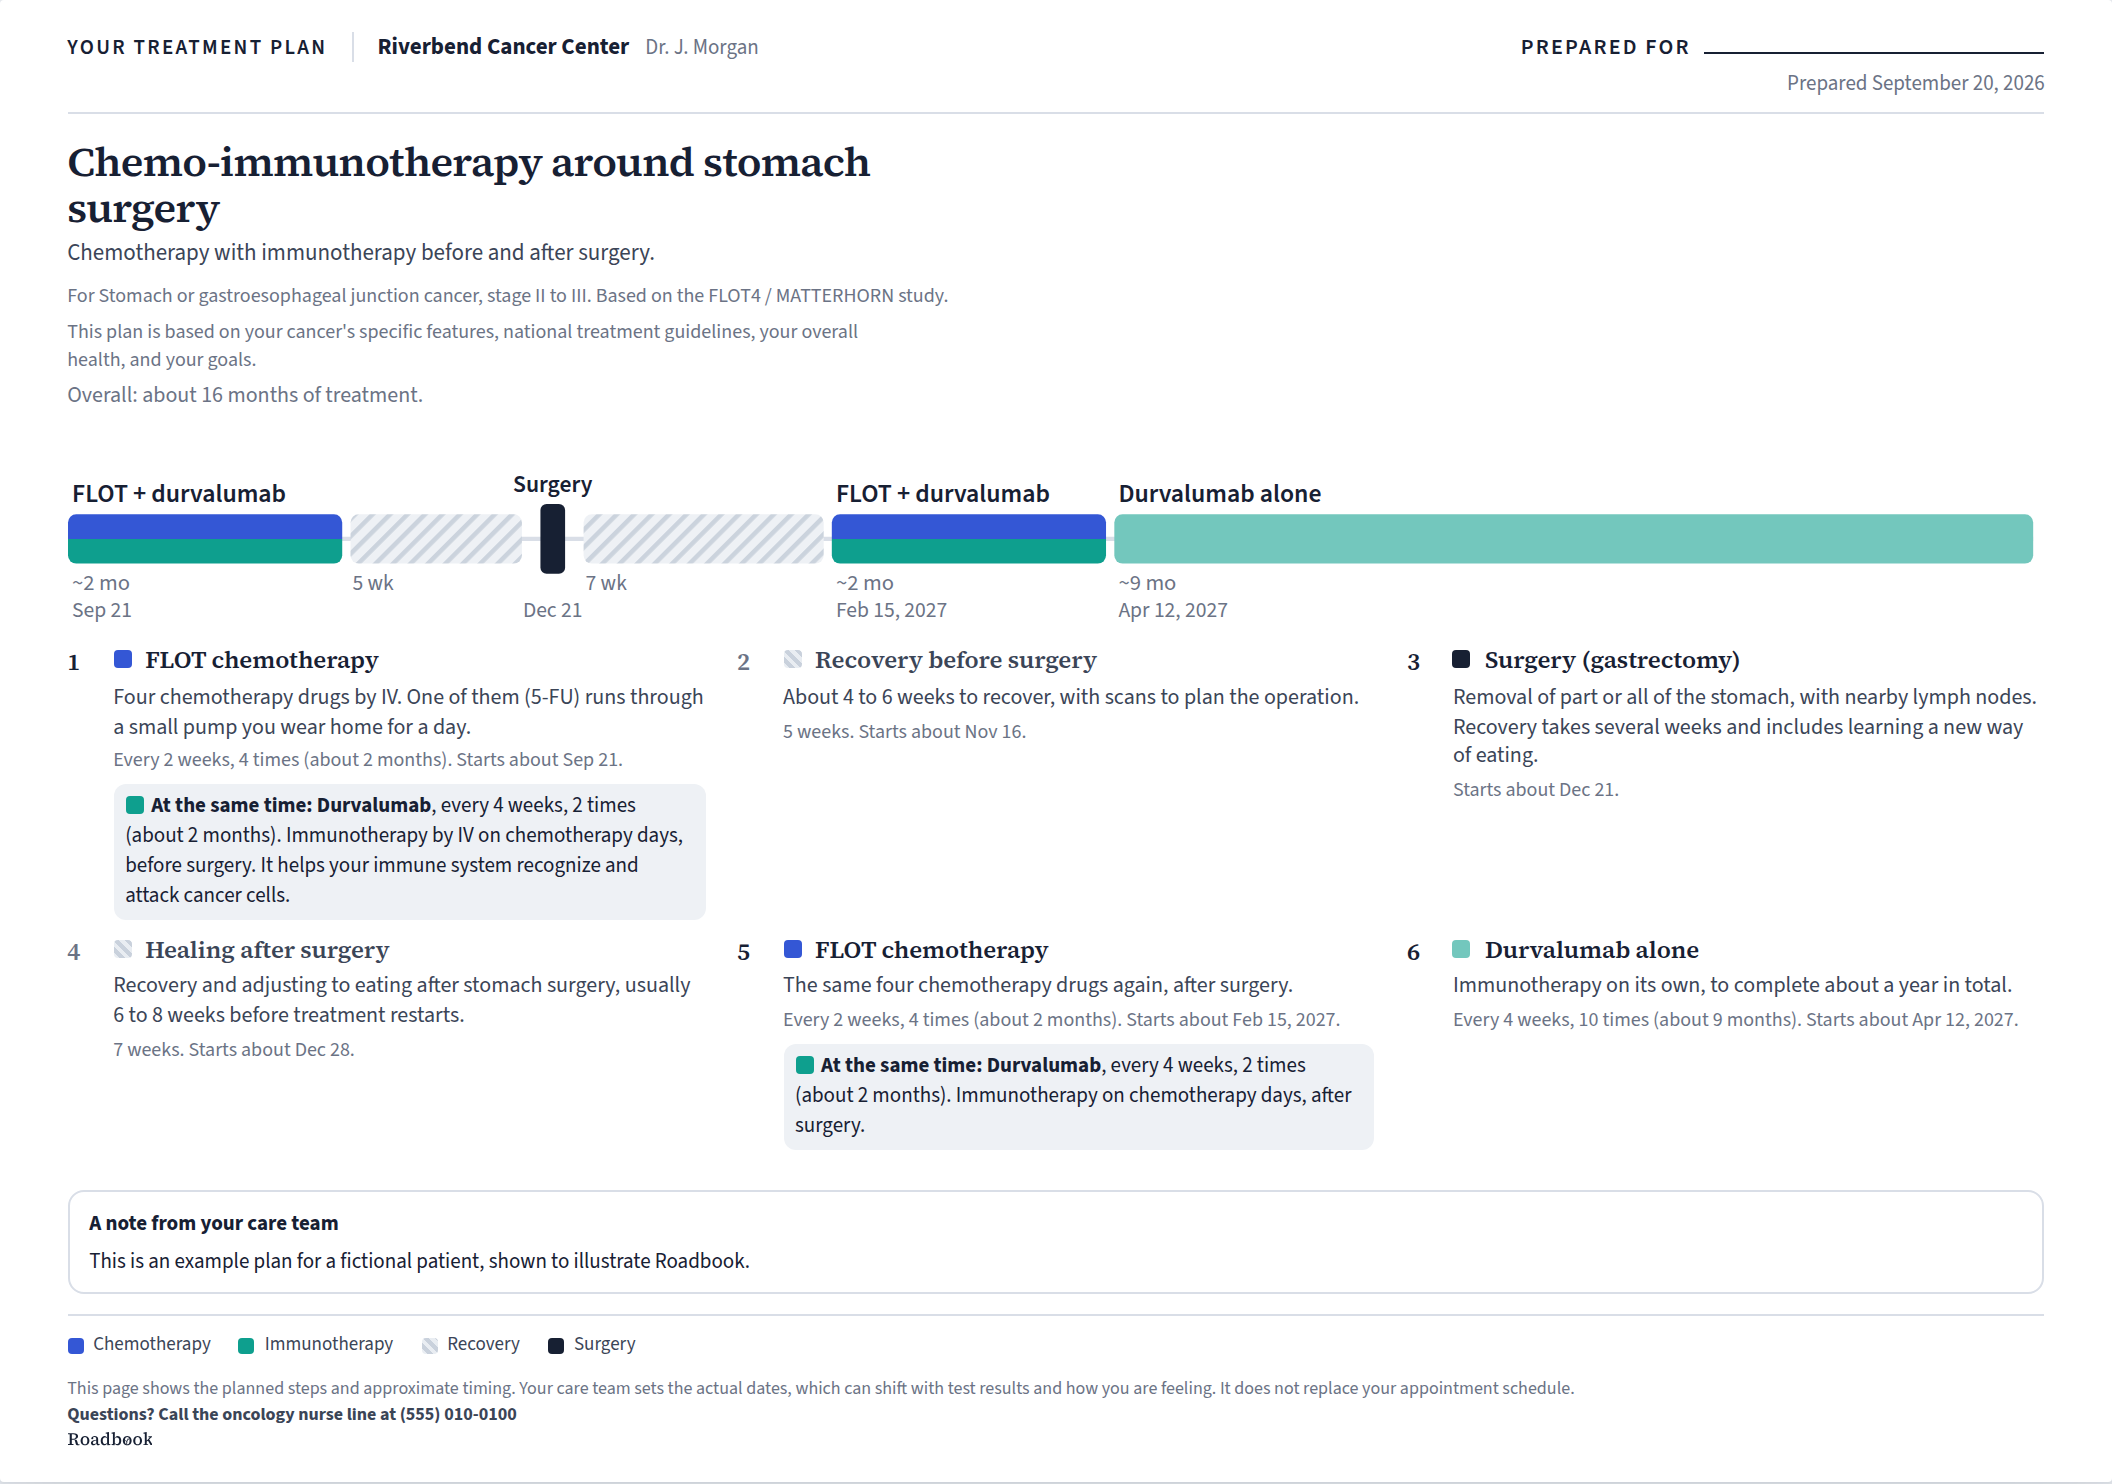
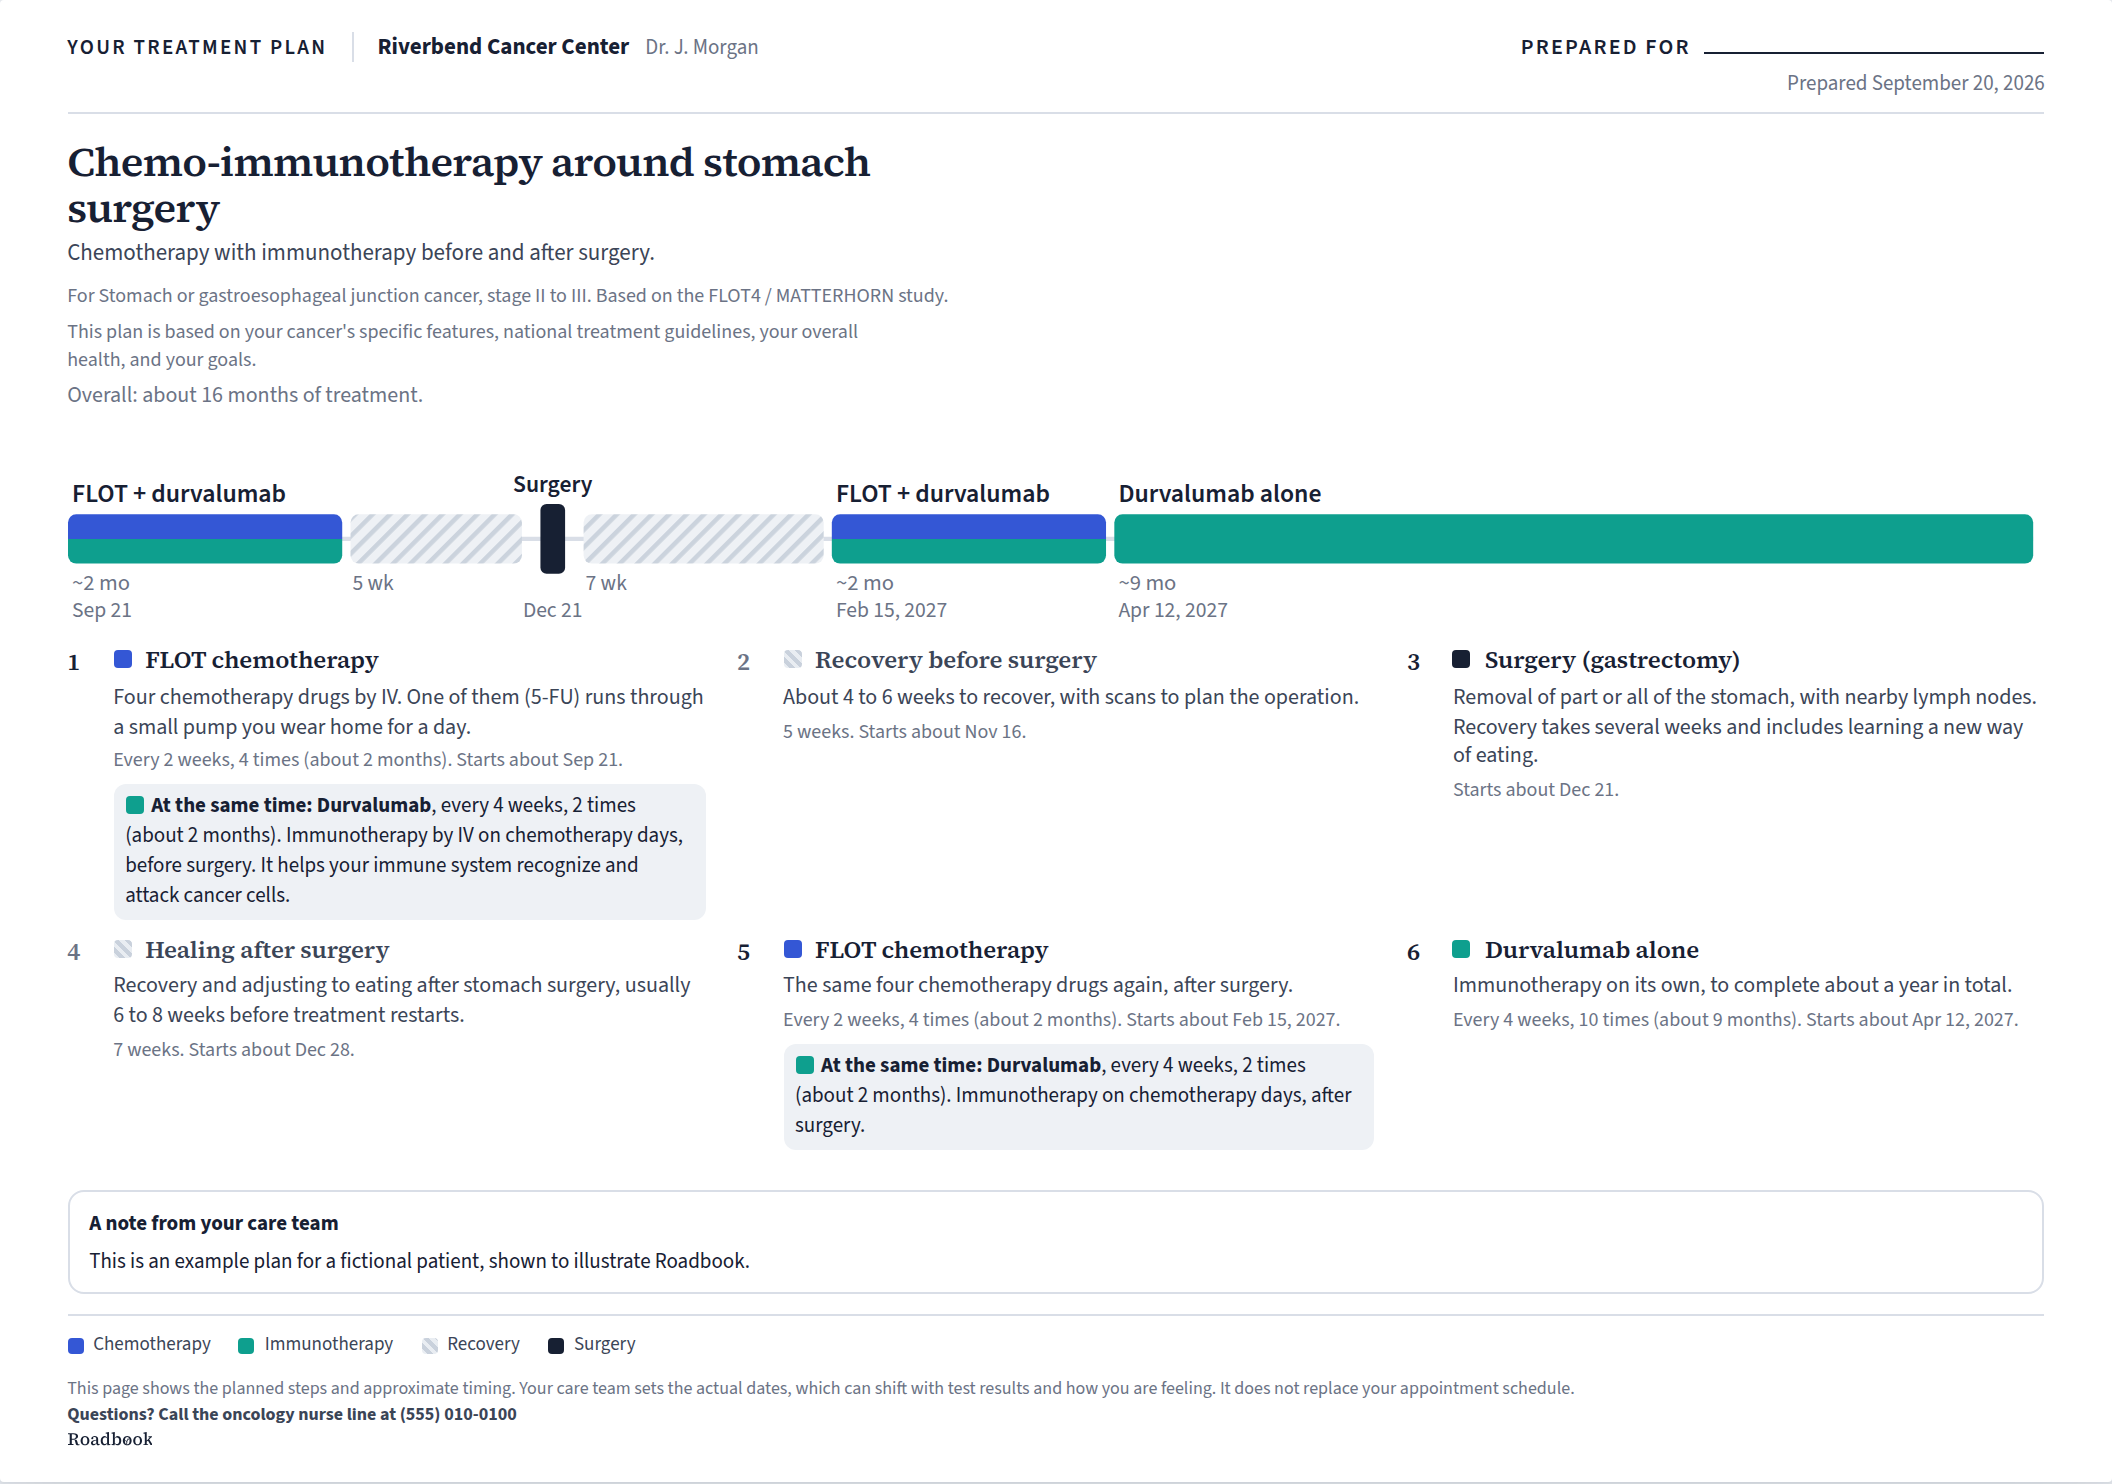
Map colours: a drug keeps one shade wherever it appears in a plan
Within a treatment-type family the map gives each drug its own shade so
that consecutive bars of the same type (AC, then paclitaxel) can be told
apart. The shade was keyed on the step's full name, so a qualifier made
the same drug a new drug: "Durvalumab alone" drew lighter than the
durvalumab inside "FLOT + durvalumab", "Carboplatin + paclitaxel (after
surgery)" lighter than the same drugs before surgery, "Bevacizumab
maintenance, if used" lighter than bevacizumab with chemotherapy.

The key is now the drug: qualifier words are dropped (alone, maintenance,
if used, before/after surgery, tablets, for 2 years...) and a
parenthetical is dropped unless it is where the drug is named
("Chemotherapy (docetaxel + cyclophosphamide), if beneficial"). Eight
steps in five pathways change shade, all to match the same drug
elsewhere in their plan: flot, atomic, kn689, ov-pds, ov-nact. No other
step changes. An explicit shade set in the editor still wins.

hero-flot.png re-rendered; the other landing images are pixel-identical.
tests/browser.js checks that durvalumab's colour inside the combined
bar equals its bar alone (33/33). All 60 plans still print on one page.

Claude-Session: https://claude.ai/code/session_01Y3Tfh74JNeao5syQge4XYJ

Changed region(s): [[0.5312, 0.341, 0.9688, 0.403], [0.6875, 0.6199, 0.7188, 0.6509]]

diff --git a/regimens.js b/regimens.js
@@ -1263,7 +1263,7 @@ const COMPARE_EXAMPLE = {
 
 const APP_VERSION = '0.22.2';
 const CHANGELOG = [
-  { date:'2026-09-20', text:'0.22.2: A drug given alongside a treatment step for exactly the same span now joins that step\'s bar on the map, in two colours with one label ("FLOT + durvalumab", "FOLFOX + atezolizumab"), the way a step carrying both types has always drawn. It stays its own step in the list under the map and can still be switched off. A drug that runs for a different span keeps its own thin bar above the step.' },
+  { date:'2026-09-20', text:'0.22.2: A drug given alongside a treatment step for exactly the same span now joins that step\'s bar on the map, in two colours with one label ("FLOT + durvalumab", "FOLFOX + atezolizumab"), the way a step carrying both types has always drawn. It stays its own step in the list under the map and can still be switched off. A drug that runs for a different span keeps its own thin bar above the step. A drug also keeps one shade wherever it appears in a plan: "Durvalumab alone" after "FLOT + durvalumab", or carboplatin and paclitaxel before and after surgery, no longer draw in a lighter shade than the same drug earlier on.' },
   { date:'2026-09-20', text:'0.22.1: Step descriptions no longer state the step\'s own cycle length or dose count in any pathway; the schedule line under each step carries it. A cadence stays in the text only where it adds something the line cannot show, such as two cadences within one step, a choice of spacing, or a dose count that depends on stage.' },
   { date:'2026-09-20', text:'0.22.0: On a phone, a plan opened from its link or QR code shows the map at a readable size in a strip that scrolls sideways, instead of the whole map squeezed to the screen width. The builder\'s page-count note no longer appears above a shared plan. Step descriptions across the library are shorter: the schedule is no longer repeated in the text, since the line under each step already states it, and the longest descriptions were tightened. An alongside step now reads "At the same time: Radiation, Monday to Friday..." instead of two sets of parentheses.' },
   { date:'2026-09-20', text:'0.21.2: A plan opened from its link or QR code is now a dead end: the page shows the plan and the print button and nothing that leads elsewhere on the site. The About link that a desktop or tablet showed above a shared plan is gone.' },

diff --git a/app.html b/app.html
@@ -710,6 +710,19 @@ function mixc(hex, f){
   return '#' + [m(r), m(g), m(bl)].map(x => x.toString(16).padStart(2, '0')).join('');
 }
 function shadeOf(base, i){ if (!i || i <= 0) return base; if (i === 1) return mixc(base, 0.42); if (i === 2) return mixc(base, -0.24); return mixc(base, 0.64); }
+// The shade key is the drug, not the step's wording: "Durvalumab", "Durvalumab
+// alone" and "Durvalumab maintenance, if used" are one drug and get one shade,
+// while "Carboplatin + paclitaxel" and "AC" stay apart. Qualifier words are
+// dropped; a parenthetical is dropped too unless it is where the drug is named
+// ("Chemotherapy (docetaxel + cyclophosphamide), if beneficial").
+const SHADE_STOP = new Set(['alone','continues','continued','continue','continuing','maintenance','then','and','plus','with','or','the','of','on','its','own','therapy','tablet','tablets','chemo','chemotherapy','immunotherapy','more','cycles','cycle','doses','dose','if','recommended','beneficial','optional','used','after','before','surgery','oral','iv','weekly','daily','same','drugs','drug','two','three','four','antibody','antibodies','hormone','endocrine','targeted','radiation','to','in','a','for','part','course','block','again','second','first','round','phase','years','year','months','month','weeks','week','positive','receptor','monitoring','surveillance']);
+function drugKey(name){
+  const toks = (t) => t.toLowerCase().replace(/[^a-z0-9\-\/ ]+/g, ' ').split(/\s+/).filter(w => w && !SHADE_STOP.has(w) && !/^\d+$/.test(w));
+  const full = name || '';
+  const outside = full.replace(/\([^)]*\)/g, ' ');
+  const words = toks(outside).length ? toks(outside) : toks(full.replace(/[()]/g, ' '));
+  return words.length ? words.sort().join(' ') : full.toLowerCase().trim();
+}
 function assignColors(reg){
   const map = new Map(); const fam = {};
   (function walk(ns){
@@ -719,7 +732,7 @@ function assignColors(reg){
       const mods = (n.mods || ['chemo']).filter(k => MODS[k]);
       const m0 = mods[0] || 'chemo';
       const fm = fam[m0] || (fam[m0] = new Map());
-      const key = (n.name || '').toLowerCase().trim();
+      const key = drugKey(n.name);
       if (!fm.has(key)) fm.set(key, fm.size);
       const idx = (n.shade != null && n.shade !== '') ? +n.shade : fm.get(key);
       map.set(n.id, [shadeOf(MODS[m0].color, idx)].concat(mods.slice(1).map(k => MODS[k].color)));

diff --git a/tests/browser.js b/tests/browser.js
@@ -177,9 +177,13 @@ const BASE = `http://localhost:${PORT}`;
         const bars = [...svg.querySelectorAll('rect')].filter(x => +x.getAttribute('height') === 8).length; // thin lane bars
         const grads = svg.querySelectorAll('linearGradient[id^="g-"]').length;
         const steps = [...document.querySelectorAll('#sheet .also')].map(e => e.textContent).filter(t => /Durvalumab/.test(t)).length;
-        return { two: labels.filter(l => l === 'FLOT + durvalumab').length, lone: labels.filter(l => /^Durvalumab ~/.test(l)).length, bars, grads, steps };
+        // the same drug keeps one shade: the immunotherapy colour inside the combined bar equals the "Durvalumab alone" bar
+        const stops = [...svg.querySelectorAll('linearGradient[id^="g-"] stop')].map(x => x.getAttribute('stop-color'));
+        const main = [...svg.querySelectorAll('rect')].filter(x => +x.getAttribute('height') === 20 || +x.getAttribute('height') > 12).map(x => x.getAttribute('fill')).filter(f => f && f.startsWith('#'));
+        return { two: labels.filter(l => l === 'FLOT + durvalumab').length, lone: labels.filter(l => /^Durvalumab ~/.test(l)).length, bars, grads, steps, sameShade: main.some(c => stops.includes(c)) };
       });
       ok('FLOT + durvalumab draws as one two-colour bar per block, durvalumab still listed under the map', r.two === 2 && r.lone === 0 && r.bars === 0 && r.grads >= 1 && r.steps === 2);
+      ok('durvalumab keeps one shade inside the combined bar and on its own', r.sameShade);
       await f.close();
     }
 
